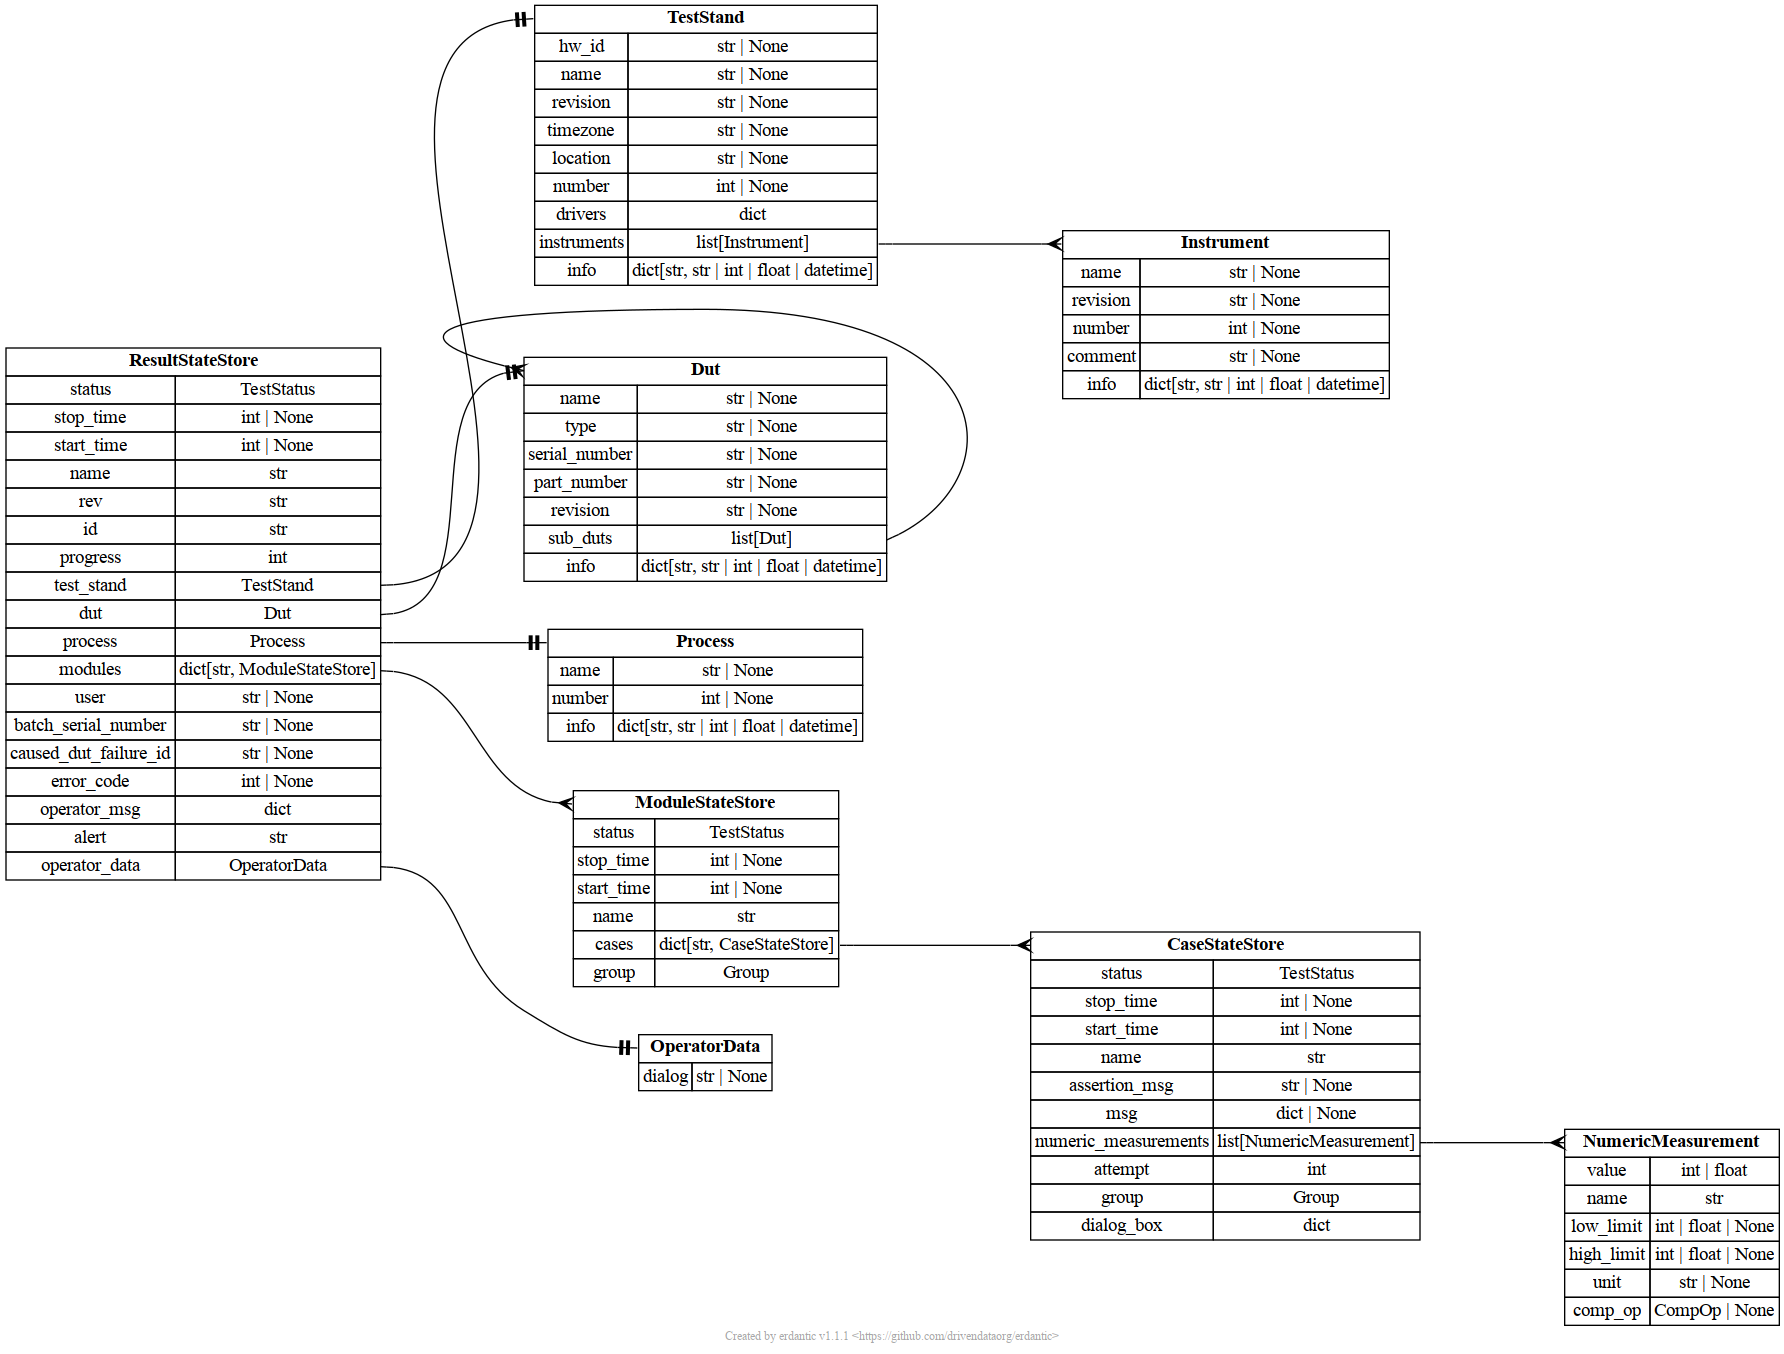
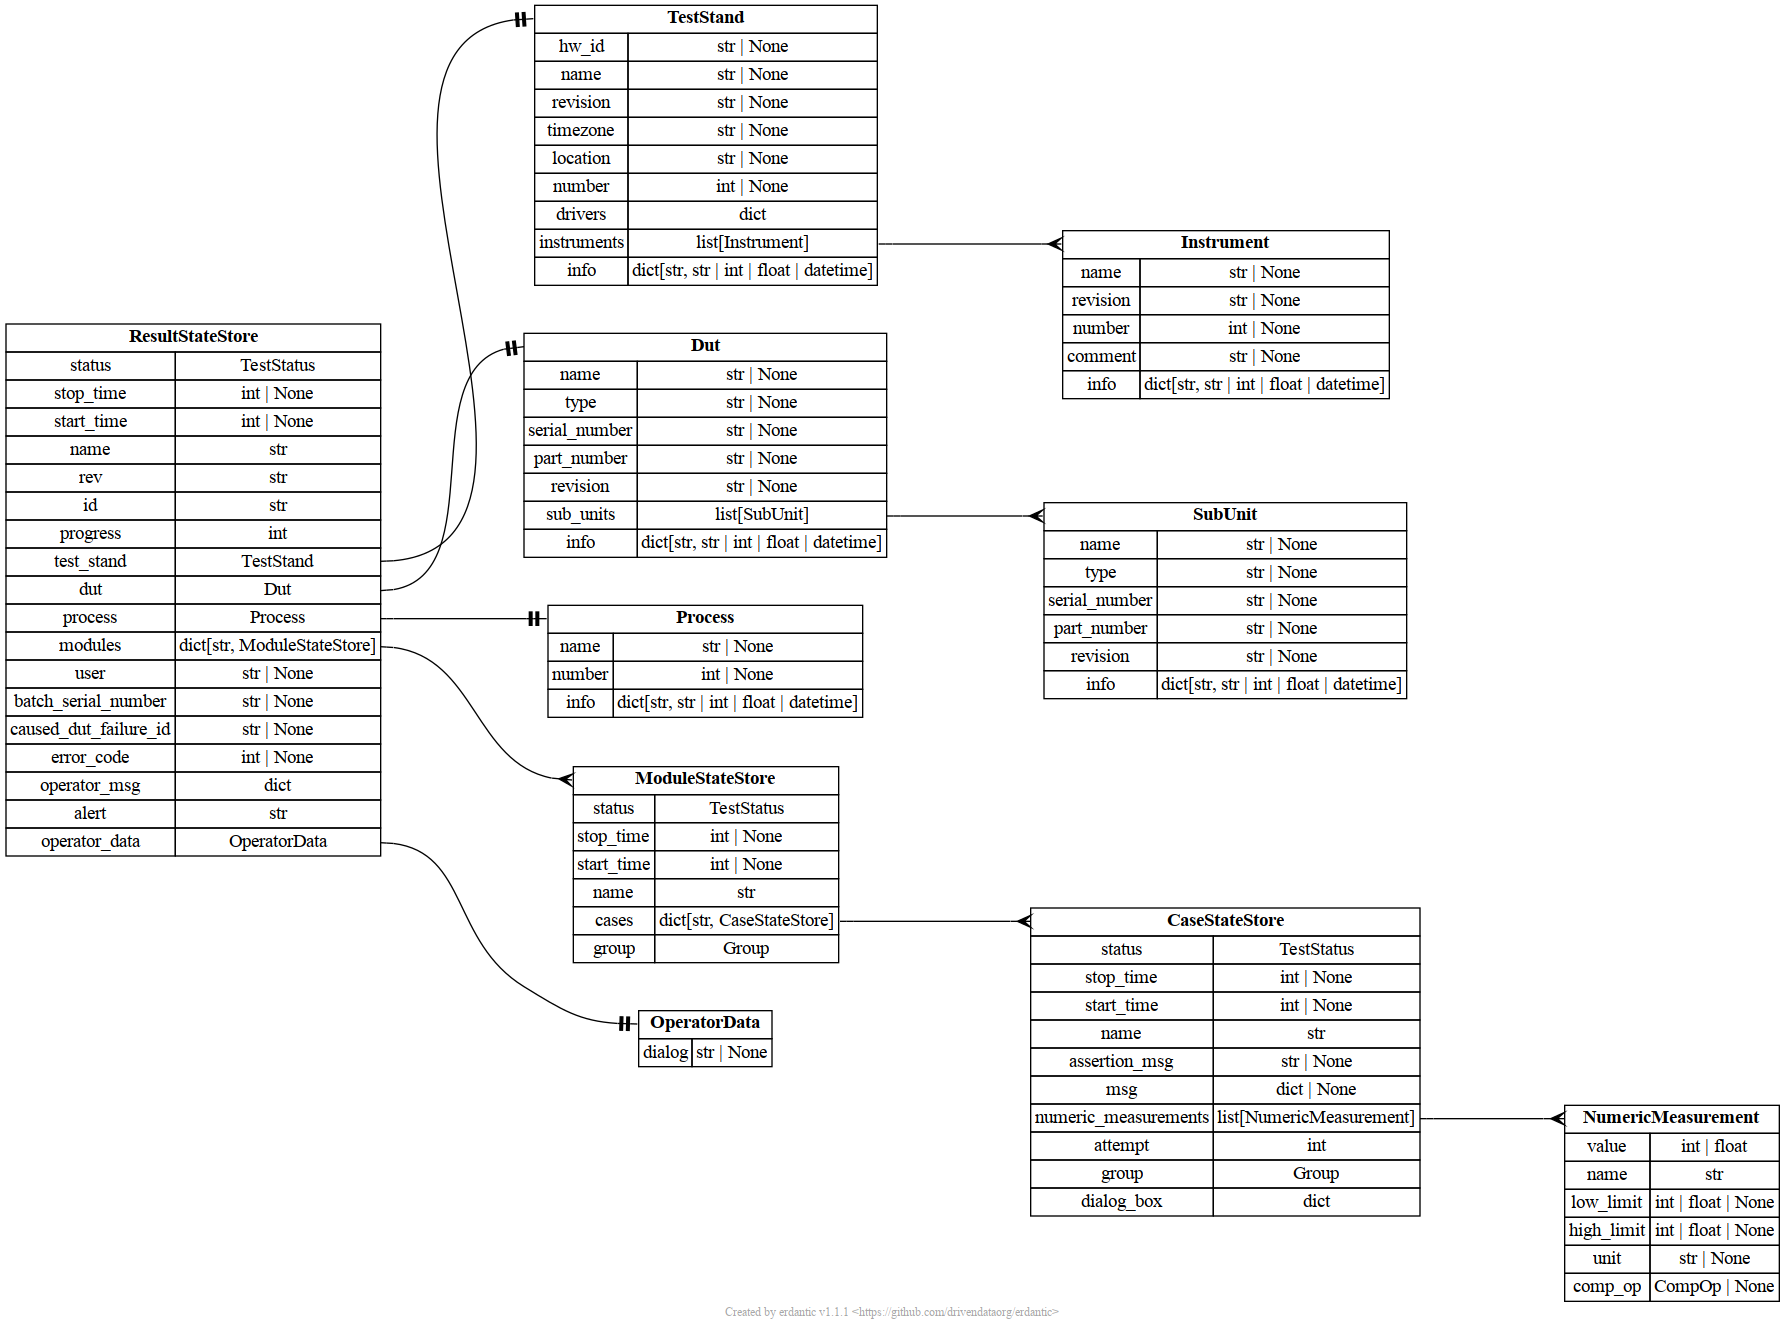
[docs] Change sub_dut to sub_unit

diff --git a/docs/documentation/database.md b/docs/documentation/database.md
@@ -261,8 +261,8 @@ The device under test section contains information about the DUT.
 - **revision**: DUT revision. The user can specify the DUT revision by using
   [set_dut_revision](./pytest_hardpy.md#set_dut_revision) function.
   It can only be set once per test run.
-- **sub_duts**: list of sub DUT's of main DUT. The structure of each sub DUT is identical to that of the DUT itself.
-  The user can add the sub DUT by using [set_sub_dut](./pytest_hardpy.md#set_sub_dut) function.
+- **sub_units**: list of sub units of main DUT. Each sub-unit has a similar structure to the DUT itself, but does not contain any other sub units.
+  The user can add the sub unit by using [set_sub_unit](./pytest_hardpy.md#set_sub_unit) function.
 - **info**: dictionary containing additional information about the the DUT, such as batch, board revision, etc.
   The user can specify the additional info by using [set_dut_info](./pytest_hardpy.md#set_dut_info) function.
 
@@ -278,7 +278,7 @@ The device under test section contains information about the DUT.
   "serial_number": "1000-10",
   "part_number": "ABC11",
   "revision": "rev_1",
-  "sub_duts": [],
+  "sub_units": [],
   "info": {
     "sw_version": "2.2"
   }
@@ -293,7 +293,7 @@ The device under test section contains information about the DUT.
   "serial_number": "1000-11",
   "part_number": "ABC11",
   "revision": "rev_1",
-  "sub_duts": [],
+  "sub_units": [],
   "info": {
     "sw_version": "2.2"
   }
@@ -405,7 +405,7 @@ Example of a **current** document:
         "serial_number": "92c5a4bb-ecb0-42c5-89ac-e0caca0919fd",
         "part_number": "0507",
         "revision": "rev_1",
-        "sub_duts": [],
+        "sub_units": [],
         "info": {
           "sw_version": "3.2.0"
         }

diff --git a/docs/about/fronted_sync.md b/docs/about/fronted_sync.md
@@ -134,8 +134,8 @@ The device under test section contains information about the DUT.
 - **revision**: DUT revision. The user can specify the DUT revision by using
   [set_dut_revision](./../documentation/pytest_hardpy.md#set_dut_revision) function.
   It can only be set once per test run.
-- **sub_duts**: list of sub DUT's of main DUT. The structure of each sub DUT is identical to that of the DUT itself.
-  The user can add the sub DUT by using [set_sub_dut](./../documentation/pytest_hardpy.md#set_sub_dut) function.
+- **sub_units**: list of sub units of main DUT. Each sub-unit has a similar structure to the DUT itself, but does not contain any other sub units.
+  The user can add the sub unit by using [set_sub_unit](./../documentation/pytest_hardpy.md#set_sub_unit) function.
 - **info**: dictionary containing additional information about the the DUT, such as batch, board revision, etc.
   The user can specify the additional info by using [set_dut_info](./../documentation/pytest_hardpy.md#set_dut_info) function.
 
@@ -260,7 +260,7 @@ For example, the measured voltage must fall within a specific range.
         "serial_number": "92c5a4bb-ecb0-42c5-89ac-e0caca0919fd",
         "part_number": "0507",
         "revision": "rev_1",
-        "sub_duts": [],
+        "sub_units": [],
         "info": {
           "sw_version": "3.2.0"
         }
